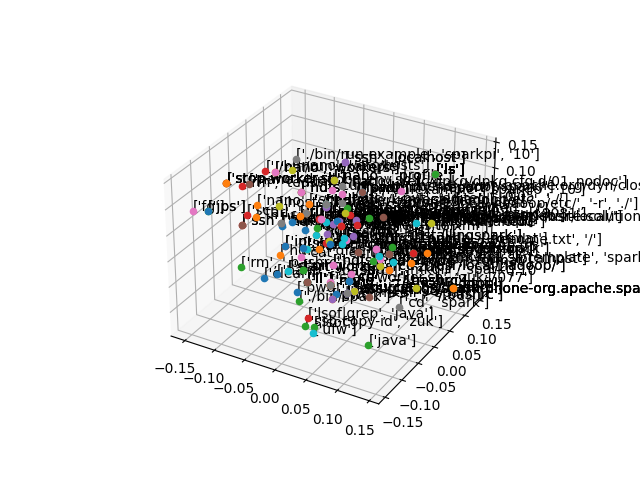
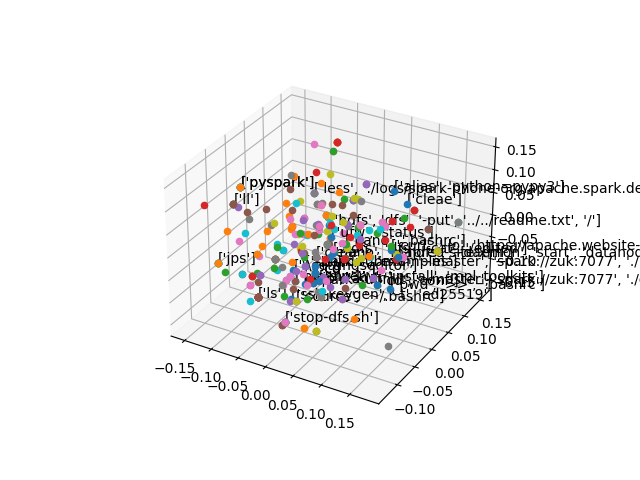
jupyter

Changed region(s): [[0.25, 0.1875, 1.0, 0.9062], [0.2812, 0.6875, 0.3125, 0.7188]]

diff --git a/SMain.py b/SMain.py
@@ -10,12 +10,18 @@ from pyspark.ml.feature import Tokenizer
 from pyspark.ml.feature import Word2Vec
 
 DEBUG = True
+fig = None
+result= None
 
 
-def main():
+def main(fname="/history"):
+    global result
+    
     print(f"Hello world, decoding {fname}")
+    print("Last changed: 13:13")
     spark = SparkSession.builder\
         .appName("MyProj")\
+        .master("local[*]")\
         .getOrCreate()
 
     df = spark.read.text(fname, wholetext=False)
@@ -36,37 +42,45 @@ def main():
     wds = result.select("token").collect()
     vecs = result.select("vector").collect()
 
-    plotVecs(wds, vecs, result.count())
+    cnt = result.count()
+    plotVecs(fname, wds, vecs, cnt)
 
     # clean
     result.show()
+    print(f"count= {cnt}")
     spark.stop()
     return
 
 
-def plotVecs(wds, vecs, count):
+def plotVecs(fname, wds, vecs, count):
+    global fig
     fig = plt.figure()
+
     ax = fig.add_subplot(111, projection='3d')
 
     for i in range(count):
         label = str(wds[i][0])
         coords = vecs[i][0].toArray()
         ax.scatter(*coords)
-        ax.text(*coords, label)
+        
+        if(i%10 ==0):
+            ax.text(*coords, label)
+        pass
 
-    plt.show()
-    oname= fname.replace("/","").replace(":","")
+    oname = fname.replace("/", "").replace(":", "")
     # oname= fname.split("/")[-1]
     plt.savefig(f"/opt/spark/myProj/plots/out-{oname}.png")
+
+    # plt.show()
+    
+    
     pass
 
 
 if __name__ == '__main__':
-    global fname
     print(sys.argv)
     if len(sys.argv) < 2:
-        fname = "hdfs://zuk:9000/history"
+        main("hdfs://zuk:9000/history")
     else:
-        fname = sys.argv[-1]
-
-    main()
+        fname = sys.argv[1]
+        main(fname)
